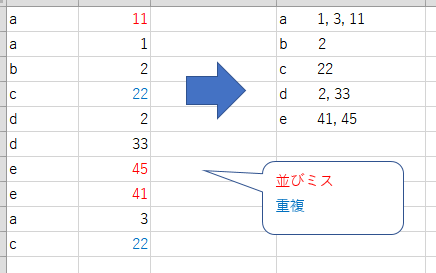
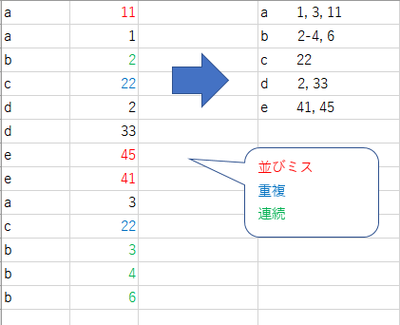
hyphenate consecutive nombres

Changed region(s): [[0.0, 0.0, 1.0, 1.0], [0.15, 0.1465, 0.18, 0.1758]]

diff --git a/script.js b/script.js
@@ -173,6 +173,31 @@ function clickBtn_hairetsu_copy() {
 // 名寄せ
 ////////////////////////////////////////////////
 
+function hyphenateConsecutiveTriplet (inputArray) {
+    if (inputArray.length < 3) {
+        return inputArray
+    }
+    const array = [];
+    array.push(
+        {Item: inputArray[0], Hyphenate: false}
+    );
+    for (let i = 0; i <= inputArray.length - 3; i++) {
+        const current = Number(inputArray[i]);
+        const next1 = Number(inputArray[i + 1]);
+        const next2 = Number(inputArray[i + 2]);
+        const hyphenateFlag = (current + 1 == next1 && current + 2 == next2)? true : false;
+        array.push(
+            {Item: next1, Hyphenate: hyphenateFlag}
+        );
+    }
+    array.push(
+        {Item: inputArray[inputArray.length - 1], Hyphenate: false}
+    );
+    return array.map(x => {
+        return (x.Hyphenate)? "-" : x.Item
+    })
+}
+
 function nayose (lines, nombreOnLeft = false) {
     const map = new Map()
     const lineArray = lines.split(/[\r\n]+/g);
@@ -195,10 +220,11 @@ function nayose (lines, nombreOnLeft = false) {
         const sorted = v.filter(x => x).sort((a, b) => a - b);
         const uniq = Array.from(new Set(sorted));
         if (uniq.length < 1) {
-            ret.push(k)
+            ret.push(k);
         }
         else {
-            ret.push(k + "　　" + uniq.join(", "));
+            const hyphenated = hyphenateConsecutiveTriplet(uniq);
+            ret.push(k + "　　" + hyphenated.join(", ").replace(/(, -)+(, )/, "-"));
         }
     })
     return ret;

diff --git a/index.html b/index.html
@@ -169,7 +169,7 @@
 <h3 id="section_forNayose">名寄せ</h3>
 <div class="caption">
     <ul>
-        <li>ノンブルを昇順で名寄せします。重複も整理します。</li>
+        <li>ノンブルを昇順で名寄せします。重複を整理し、3以上連続するノンブルはハイフンでつなぎます。</li>
         <li>項目のソート機能はありません。上から表示されている順番通りに名寄せします。</li>
         <li>見よ項目など、ノンブルが記入されていない場合はそのまま表示します。</li>
         <li>子項目は手動で作成してください。</li>
